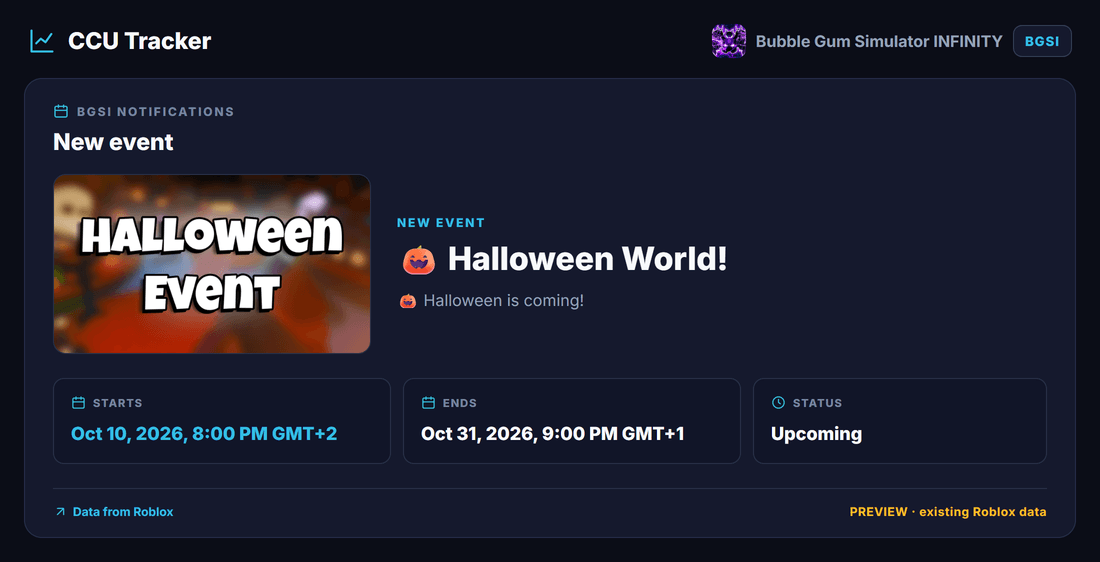
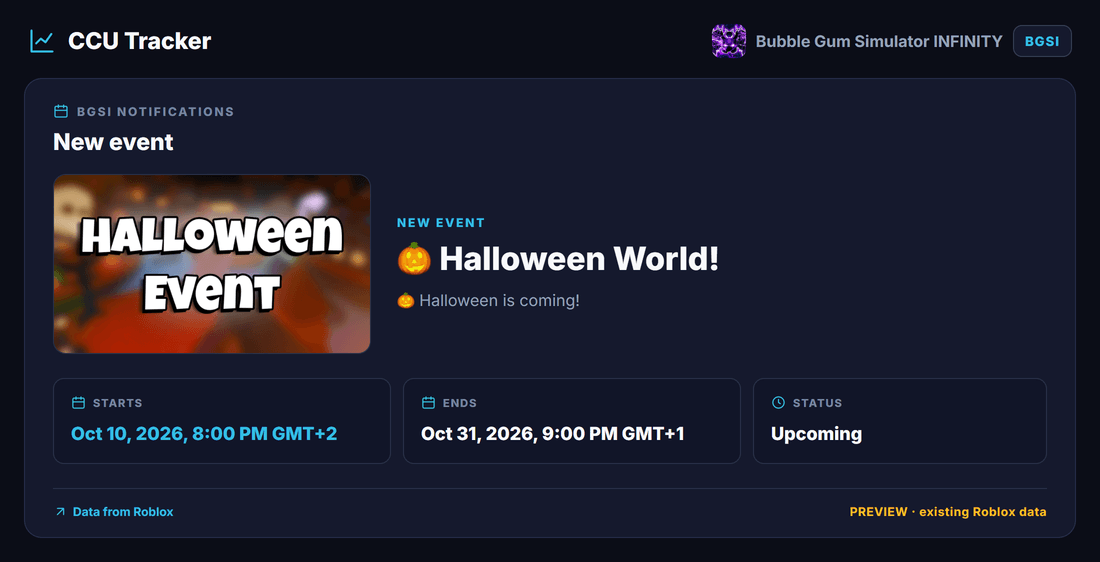
Render Apple emoji consistently in BGSI notification images

Changed region(s): [[0.34, 0.4235, 0.68, 0.5445], [0.6491, 0.0605, 0.68, 0.0907]]

diff --git a/debug/index.html b/debug/index.html
@@ -40,22 +40,22 @@
     <section class="debug-grid" aria-label="Rodzaje wiadomości testowych">
       <article class="debug-card" data-category="updates">
         <header><div><span class="card-kicker">UPDATES</span><h2>Aktualizacja gry</h2></div><span class="channel-tag"># updates</span></header>
-        <a class="image-preview" href="../assets/debug/bgsi-updates.png?v=20261010-clean" target="_blank" rel="noopener" aria-label="Powiększ podgląd aktualizacji"><img src="../assets/debug/bgsi-updates.png?v=20261010-clean" alt="Podgląd obrazka aktualizacji BGSI" loading="eager"></a>
+        <a class="image-preview" href="../assets/debug/bgsi-updates.png?v=20261010-apple-emoji" target="_blank" rel="noopener" aria-label="Powiększ podgląd aktualizacji"><img src="../assets/debug/bgsi-updates.png?v=20261010-apple-emoji" alt="Podgląd obrazka aktualizacji BGSI" loading="eager"></a>
         <div class="card-actions"><button type="button" data-send="updates" disabled>Wyślij test aktualizacji</button><p class="card-result" data-result="updates" aria-live="polite">Gotowe do testu</p></div>
       </article>
       <article class="debug-card" data-category="events">
         <header><div><span class="card-kicker">EVENTS</span><h2>Nowy event</h2></div><span class="channel-tag"># events</span></header>
-        <a class="image-preview" href="../assets/debug/bgsi-events.png?v=20261010-clean" target="_blank" rel="noopener" aria-label="Powiększ podgląd eventu"><img src="../assets/debug/bgsi-events.png?v=20261010-clean" alt="Podgląd obrazka eventu BGSI" loading="eager"></a>
+        <a class="image-preview" href="../assets/debug/bgsi-events.png?v=20261010-apple-emoji" target="_blank" rel="noopener" aria-label="Powiększ podgląd eventu"><img src="../assets/debug/bgsi-events.png?v=20261010-apple-emoji" alt="Podgląd obrazka eventu BGSI" loading="eager"></a>
         <div class="card-actions"><button type="button" data-send="events" disabled>Wyślij test eventu</button><p class="card-result" data-result="events" aria-live="polite">Gotowe do testu</p></div>
       </article>
       <article class="debug-card" data-category="passes">
         <header><div><span class="card-kicker">PASSES</span><h2>Nowy gamepass</h2></div><span class="channel-tag"># passes</span></header>
-        <a class="image-preview" href="../assets/debug/bgsi-passes.png?v=20261010-clean" target="_blank" rel="noopener" aria-label="Powiększ podgląd gamepassa"><img src="../assets/debug/bgsi-passes.png?v=20261010-clean" alt="Podgląd obrazka gamepassa BGSI" loading="lazy"></a>
+        <a class="image-preview" href="../assets/debug/bgsi-passes.png?v=20261010-apple-emoji" target="_blank" rel="noopener" aria-label="Powiększ podgląd gamepassa"><img src="../assets/debug/bgsi-passes.png?v=20261010-apple-emoji" alt="Podgląd obrazka gamepassa BGSI" loading="lazy"></a>
         <div class="card-actions"><button type="button" data-send="passes" disabled>Wyślij test gamepassa</button><p class="card-result" data-result="passes" aria-live="polite">Gotowe do testu</p></div>
       </article>
       <article class="debug-card" data-category="products">
         <header><div><span class="card-kicker">DEV PRODUCTS</span><h2>Nowy developer product</h2></div><span class="channel-tag"># dev products</span></header>
-        <a class="image-preview" href="../assets/debug/bgsi-products.png?v=20261010-clean" target="_blank" rel="noopener" aria-label="Powiększ podgląd produktu"><img src="../assets/debug/bgsi-products.png?v=20261010-clean" alt="Podgląd obrazka developer productu BGSI" loading="lazy"></a>
+        <a class="image-preview" href="../assets/debug/bgsi-products.png?v=20261010-apple-emoji" target="_blank" rel="noopener" aria-label="Powiększ podgląd produktu"><img src="../assets/debug/bgsi-products.png?v=20261010-apple-emoji" alt="Podgląd obrazka developer productu BGSI" loading="lazy"></a>
         <div class="card-actions"><button type="button" data-send="products" disabled>Wyślij test produktu</button><p class="card-result" data-result="products" aria-live="polite">Gotowe do testu</p></div>
       </article>
     </section>

diff --git a/scripts/bgsi-alerts/README.md b/scripts/bgsi-alerts/README.md
@@ -15,7 +15,7 @@ The workflow uses the existing `ping` repository dispatch and a five-minute sche
 
 The game `updated` timestamp is a publication/change signal, not a guarantee of a major content update. Price changes to existing items do not cause alerts. New event announcements are sent when discovered; starting an already announced event does not cause another ping.
 
-Each notification is a real PNG attachment, rendered with Chromium from HTML and the repository's `site.css`. Colors, typography and cards follow TrackCCU. The message content is exactly `@everyone`, with `allowed_mentions.parse` set to `everyone`. All item details are carried by the PNG attachments. Debug tests also send only the ping when enabled; when the debug ping is disabled, they send images with empty message content. The response is checked for PNG attachments and an active everyone mention.
+Each notification is a real PNG attachment, rendered with Chromium from HTML and the repository's `site.css`. Colors, typography and cards follow TrackCCU. Emoji in titles, subtitles and descriptions use embedded Apple PNG glyphs from the pinned `emoji-datasource-apple` package, keeping their macOS appearance consistent on Windows and Linux. Compound sequences, skin tones, flags and keycaps are handled as complete Unicode graphemes. Upstream data and artwork information: https://github.com/iamcal/emoji-data. The message content is exactly `@everyone`, with `allowed_mentions.parse` set to `everyone`. All item details are carried by the PNG attachments. Debug tests also send only the ping when enabled; when the debug ping is disabled, they send images with empty message content. The response is checked for PNG attachments and an active everyone mention.
 
 The four destinations are configured in `.github/bgsi-webhooks.json`. Corresponding environment variables / Actions secrets (`BGSI_UPDATES_WEBHOOK`, `BGSI_EVENTS_WEBHOOK`, `BGSI_PASSES_WEBHOOK`, `BGSI_PRODUCTS_WEBHOOK`) override those values. Destination URLs are never included in generated images or logs.
 
